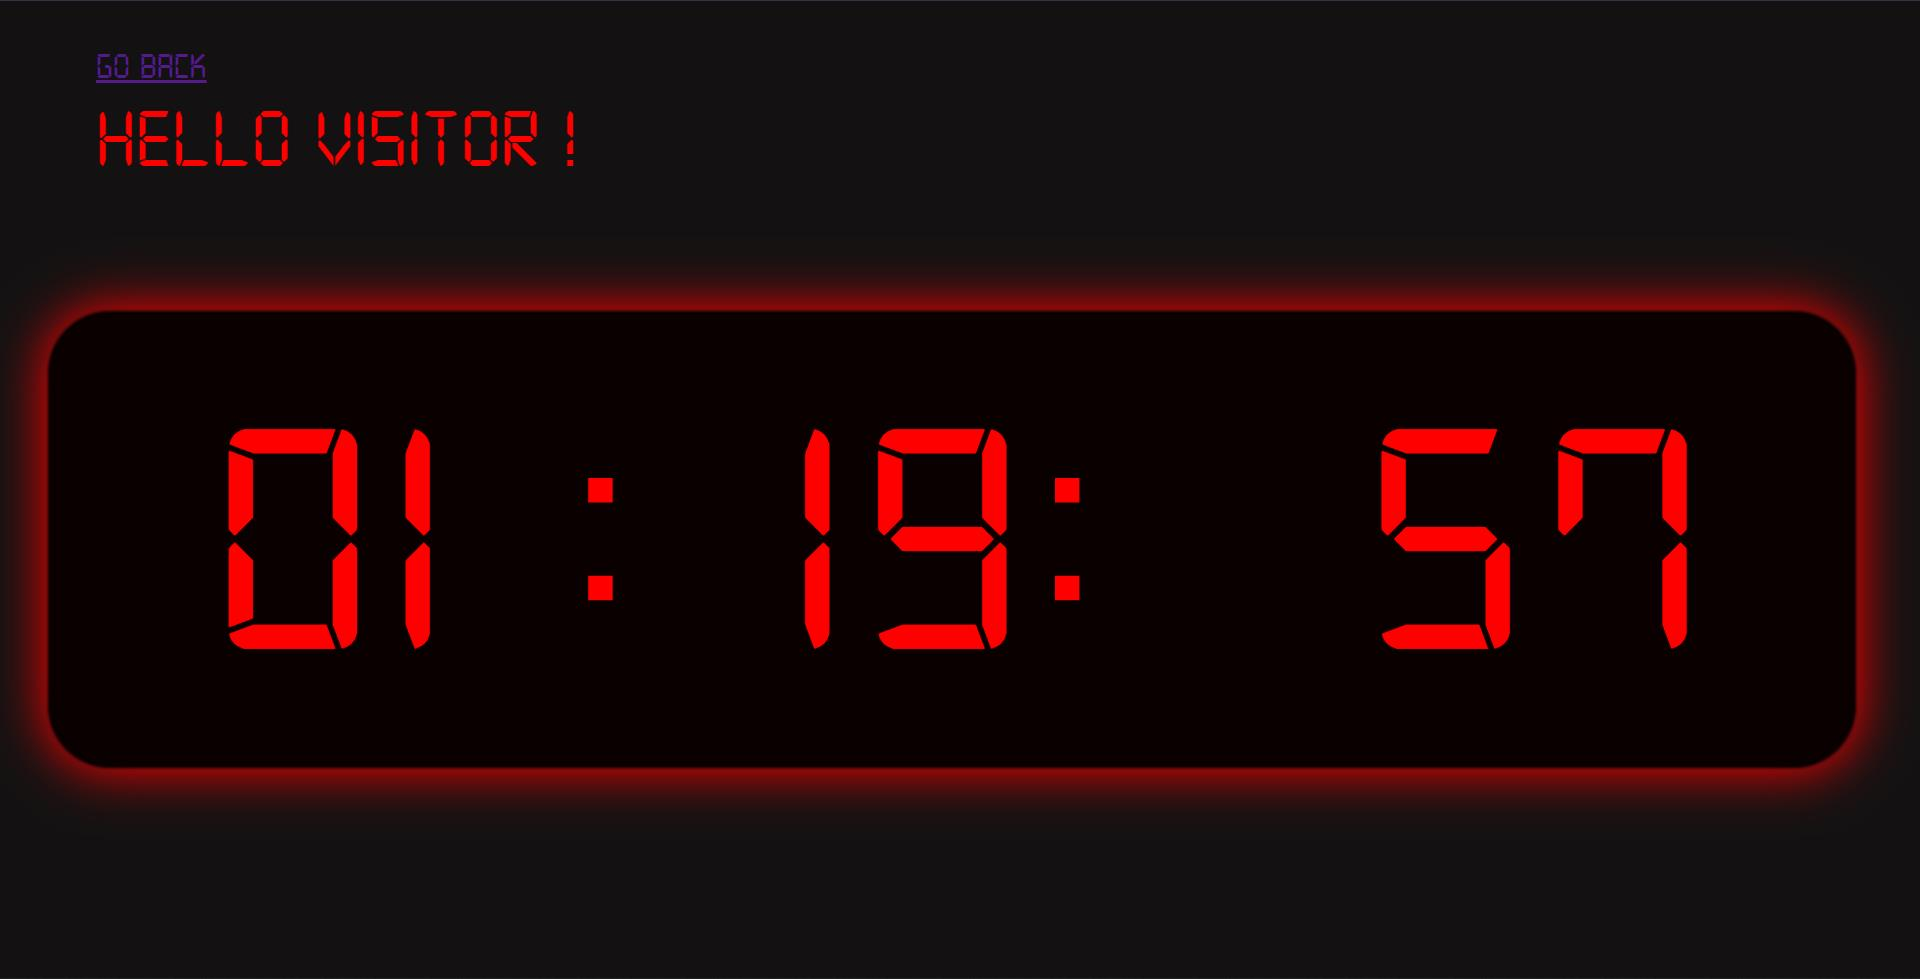
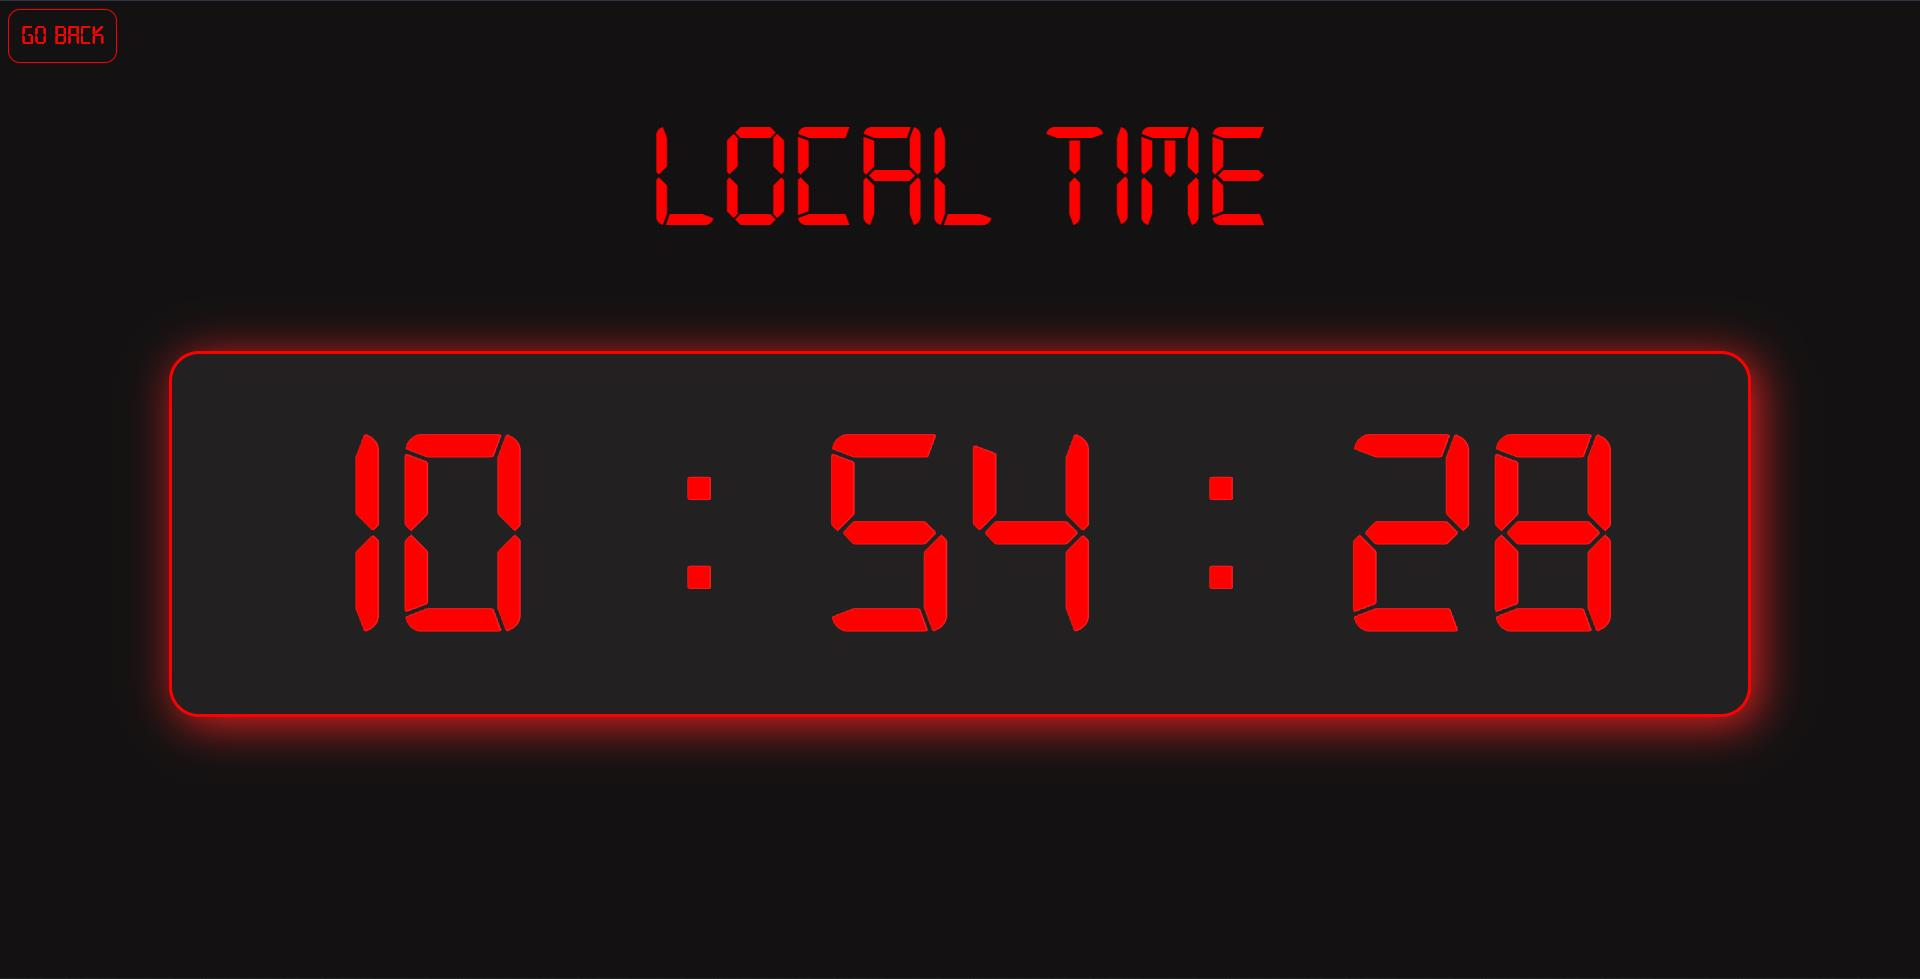
Rebuilding clock

diff --git a/projects/project_list/clock/clock.css b/projects/project_list/clock/clock.css
@@ -5,142 +5,69 @@
 
 body{
     background-color:rgb(19, 18, 18);
-}
-#back{
-    font-size:150%;
-    font-family:digital;
     color:red;
-    display:inline-block;
+    font-family: digital;
+}
+a{
+    font-size:large;
+    border:1px solid red;
+    color:red;
+    padding:8px;
+    border-radius: 8px;
+    font-family:digital;
     position:absolute;
-    left:5%;
-    
+    text-decoration: none;  
+    top:5px;
+    left:5px;
+}
+a:hover{
+    background-color: rgb(224, 20, 20);
+    color:black;
 }
 #name{
-    font-size:350%;
-    font-family:digital;
-    color:red;
-    display:inline-block;
-    position:absolute;
-    left:5%;
+    font-size:100px;
+    font-weight: 500;
+    text-align: center;
 
 }
-#clock{
-    position:relative;
+.clock{
+    margin: 0 auto;
+    width:80%;
+    height:200px;
     display:flex;
-    flex-wrap: wrap;
-    width:95%;
-    height:300px;
-    border:1px solid black;
-    top:200px;
-    background-color:#0a0000;
-    border-radius:40px;
-    box-shadow:0 0 2px 1px black,
-               0px 0px 20px 3px red;
-
-    left:2%;
     align-items: center;
-    
-    animation-name:clockclick;
-    animation-duration:1s;
-    animation-iteration-count: infinite;
-    
+    font-size:200px;
+    border-radius: 20px;
+    background-color: rgb(34, 32, 32);
+    padding:20px;
+    border:2px solid red;
+
+    box-shadow: 5px 5px 30px rgb(236, 33, 33);
+
+
+}
+.clock-item{
+    width:33%;
+    height:90%;
+    text-align: center;
+    display:flex;
+    flex-direction: column;
+    justify-content: center;
+
+}
+@media (max-width:650px){
+    .clock{font-size:140px}
+    .clock{width:90%}
+    #name{font-size:80px}
+}
+#hour{
+
 }
 
-@keyframes clockclick{
-    0%{box-shadow:0 0 2px 1px black,
-        0px 0px 20px 3px red;}
+#minute{
 
-    50%{box-shadow:0 0 2px 1px black,
-        0px 0px 50px 3px red;}
-
-    100%{box-shadow:0 0 2px 1px black,
-        0px 0px 20px 3px red;}
 }
 
-/* CLOCK ELEMENTS*/
+#second{
 
-#clock #hour{
-    color:red;
-    
-    position:absolute;
-    left:9%;
-    font-size:1400%;
-    font-family:digital;
-    letter-spacing: 12px;
-}
-#clock #minute{
-    color:red;
-    font-size:50px;
-    position:absolute;
-    font-size:1400%;
-    left:41%;
-    font-family:digital;
-    letter-spacing: 12px;
-}
-#clock #second{
-    color:red;
-    font-size:50px;
-    position:absolute; 
-    font-size:1400%;
-    left:73%;
-    font-family:digital;
-    letter-spacing: 12px;
-}
-
-/*RESPONSIVENESS*/
-
-@media screen and (max-width:1080px){
-    #clock{
-        height:250px;
-    }
-    
-    #clock #hour{
-        font-size:800%;
-    }
-    #clock #minute{
-        font-size:800%;
-        left:40%;
-    }
-    #clock #second{
-        font-size:800%;
-        left:70%;
-    }
-}
-
-
-@media screen and (max-width:800px){
-    #clock{
-        height:200px;
-    }
-    #clock #hour{
-        font-size:600%;
-    }
-    #clock #minute{
-        font-size:600%;
-        left:43%;
-    }
-    #clock #second{
-        font-size:600%;
-        left:70%;
-    }
-    #click{
-        font-size:200%;
-    }
-}
-
-@media screen and (max-width:600px){
-    #clock{
-        height:200px;
-    }
-    #clock #hour{
-        font-size:450%;
-    }
-    #clock #minute{
-        font-size:450%;
-        left:40%;
-    }
-    #clock #second{
-        font-size:450%;
-        left:70%;
-    }
 }

diff --git a/projects/project_list/clock/index.html b/projects/project_list/clock/index.html
@@ -10,58 +10,21 @@
 	<meta property="og:type" content="website" />
 	<meta property="og:title" content="Just a simple clock.." />
 	<link rel="shortcut icon" href="/projects/project_images/clock.png" type="image/x-icon">
+	<script src="script.js" defer></script>
 </head>
 
 <body>
-	<p id="back"><a href="/projects/#tic_tac_toe">Go back</a></p>
-	<p id="name">Hello, Name!</p>
+	<a href="/projects/#tic_tac_toe">Go back</a>
 
-	<div id="clock">
-		<p id="hour"></p>
-		<div id="minute"></div>
-		<div id="second"></div>
+	<h1 id="name">Local time</h1>
 
+	<div class="clock">
+		<div class="clock-item" id="hour">12</div>
+		<p>:</p>
+		<div class="clock-item" id="minute">12</div>
+		<p>:</p>
+		<div class="clock-item" id="second">12</div>
 	</div>
-
-	<script>
-		var name = prompt("Hello, What is your name?");
-		document.getElementById("name").innerHTML = "Hello " + " " + name + " !";
-		function playtime() {
-
-
-			var date = new Date();
-			var hours = date.getHours();
-			var mns = date.getMinutes();
-			var secs = date.getSeconds();
-
-			if (hours > 12) {
-				hours -= 12;
-				document.getElementById("hour").innerHTML = "0" + hours + " :";
-			}
-			else {
-				document.getElementById("hour").innerHTML = hours + " :";
-			}
-			if (mns < 10) {
-				document.getElementById("minute").innerHTML = "0" + mns + " :";
-			}
-			else {
-				document.getElementById("minute").innerHTML = mns + ":";
-			}
-
-			if (secs < 10) {
-				document.getElementById("second").innerHTML = " 0" + secs;
-			}
-			else {
-				document.getElementById("second").innerHTML = " " + secs;
-			}
-
-
-		}
-		setInterval(playtime, 100);
-
-	</script>
-
-
 
 </body>
 

diff --git a/projects/index.html b/projects/index.html
@@ -106,7 +106,7 @@
                 <div class="green circle"></div>
             </div>
             <div class="card-body">
-                <img class="card__img" src="project_images/lading_page.jpg" alt="clock_project">
+                <img class="card__img" src="project_images/lading_page.jpg" alt="Landing page">
                 <p>Landing Page</p>
             </div>
         </a>
@@ -119,7 +119,7 @@
                 <div class="green circle"></div>
             </div>
             <div class="card-body">
-                <img class="card__img" src="project_images/docs.jpg" alt="clock_project">
+                <img class="card__img" src="project_images/docs.jpg" alt="docs page">
                 <p>Documentation Page</p>
             </div>
         </a>

diff --git a/projects/project_list/clock/script.js b/projects/project_list/clock/script.js
@@ -1,0 +1,31 @@
+let hourHand = document.getElementById("hour");
+let minuteHand = document.getElementById("minute")
+let secondHand = document.getElementById("second")
+
+function playtime() {
+	let date = new Date();
+	let hours = date.getHours();
+	let minutes = date.getMinutes();
+	let seconds = date.getSeconds();
+
+    // for hours
+    if (hours > 12){
+        hours = hours - 12;
+    }
+    if (hours < 10){
+        hours = "0" + hours;
+    }
+    // for minutes
+    if (minutes < 10){
+        minutes = "0" + minutes;
+    }
+    // for seconds
+    if (seconds < 10){
+        seconds = "0" + seconds;
+    }
+    hourHand.textContent = hours;
+    minuteHand.textContent = minutes;
+    secondHand.textContent = seconds;
+
+}
+setInterval(playtime, 100);
